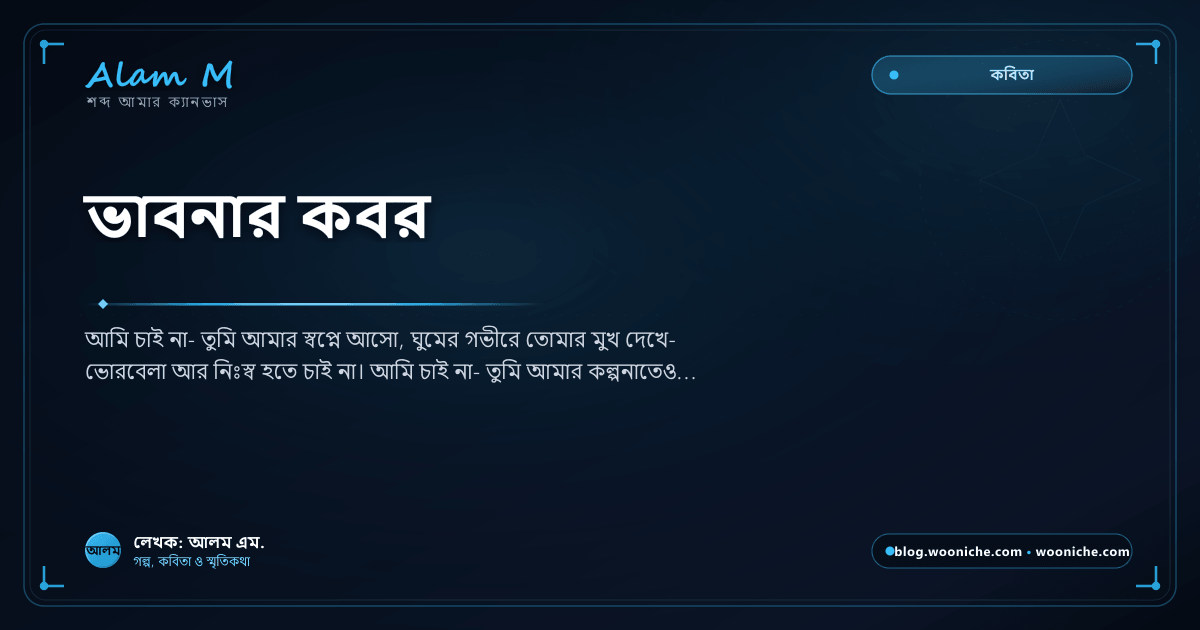
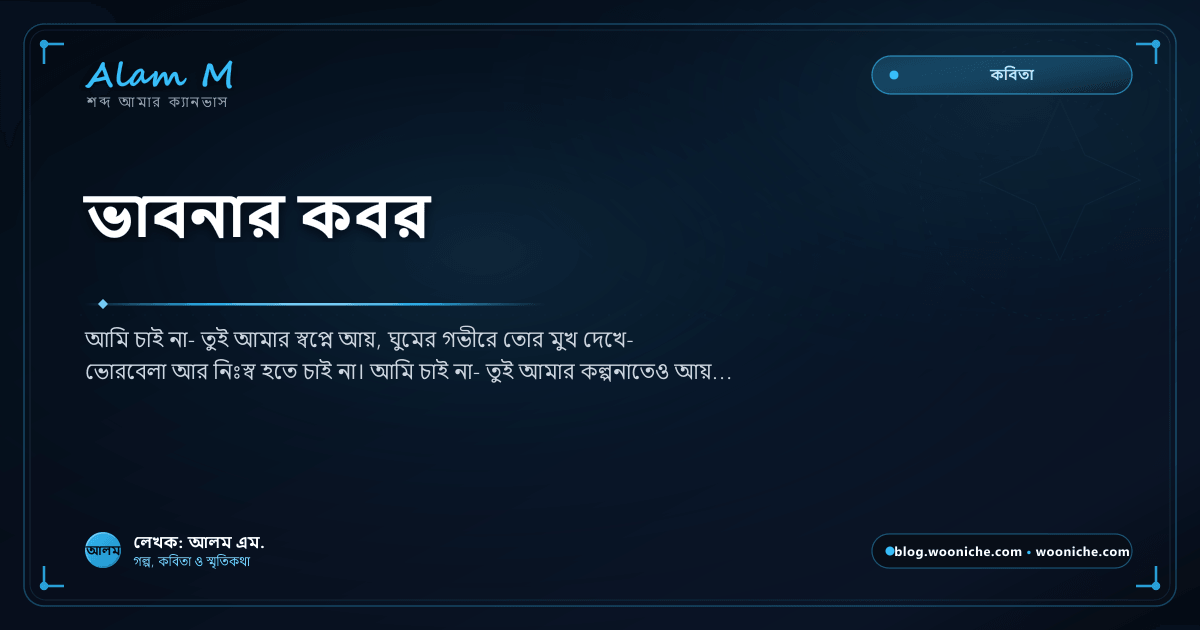
style(content): update poem 'bhabnar-kobor' to informal intimate address (তুমি to তুই)

Changed region(s): [[0.185, 0.5127, 0.6167, 0.6032], [0.1233, 0.8746, 0.1542, 0.9048]]

diff --git a/src/integrations/d1/seed-data.ts b/src/integrations/d1/seed-data.ts
@@ -261,9 +261,9 @@ export const INITIAL_SEED_DATA = {
       "slug": "bhabnar-kobor",
       "title_bn": "ভাবনার কবর",
       "title_en": null,
-      "excerpt_bn": "আমি চাই না- তুমি আমার স্বপ্নে আসো, ঘুমের গভীরে তোমার মুখ দেখে- ভোরবেলা আর নিঃস্ব হতে চাই না। আমি চাই না- তুমি আমার কল্পনাতেও আসো, কোনো অবসরে- তোমাকে নিয়ে গল্প সাজাতে চাই না...",
+      "excerpt_bn": "আমি চাই না- তুই আমার স্বপ্নে আয়, ঘুমের গভীরে তোর মুখ দেখে- ভোরবেলা আর নিঃস্ব হতে চাই না। আমি চাই না- তুই আমার কল্পনাতেও আয়, কোনো অবসরে- তোকে নিয়ে গল্প সাজাতে চাই না...",
       "excerpt_en": null,
-      "content_bn": "<p>আমি চাই না-<br>তুমি আমার স্বপ্নে আসো,<br>ঘুমের গভীরে তোমার মুখ দেখে-<br>ভোরবেলা আর নিঃস্ব হতে চাই না।</p>\n<p>আমি চাই না-<br>তুমি আমার কল্পনাতেও আসো,<br>কোনো অবসরে-<br>তোমাকে নিয়ে গল্প সাজাতে চাই না।</p>\n<p>তাই চাই, যখন জেগে থাকি-<br>তখন যেন ভাবনার কবর দিতে পারি,<br>যে স্মৃতিগুলো আমাকে বন্দি করেছে-<br>তাদের শেষ বিদায় জানাতে পারি।</p>\n<p>তোমার নাম লেখা পুরোনো চিঠিগুলো-<br>আর পড়তে চাই না,<br>যে পথে একদিন তোমার সঙ্গে হেঁটেছি-<br>সে পথেও ফিরে তাকাতে চাই না।</p>\n<p>আমি জানি, ভুলে যাওয়া এত সহজ নয়,<br>স্মৃতি কোনো নির্দেশ মানে না,<br>তবু নিজেকে বোঝাতে চাই প্রতিদিন,<br>হারানো তোমাকে ফিরে পেতে না চাই<br>এই জীবনেই তোমাকে ভুলে যেতে চাই<br>শিখে নিতে চাই একা থাকার ব্যাকরণ<br>ভাবনার কবর দিয়ে অবসর চাই।</p>\n<p class=\"poem-date\"><strong>© আলম</strong></p>",
+      "content_bn": "<p>আমি চাই না-<br>তুই আমার স্বপ্নে আয়,<br>ঘুমের গভীরে তোর মুখ দেখে-<br>ভোরবেলা আর নিঃস্ব হতে চাই না।</p>\n<p>আমি চাই না-<br>তুই আমার কল্পনাতেও আয়,<br>কোনো অবসরে-<br>তোকে নিয়ে গল্প সাজাতে চাই না।</p>\n<p>তাই চাই, যখন জেগে থাকি-<br>তখন যেন ভাবনার কবর দিতে পারি,<br>যে স্মৃতিগুলো আমাকে বন্দি করেছে-<br>তাদের শেষ বিদায় জানাতে পারি।</p>\n<p>তোর নাম লেখা পুরোনো চিঠিগুলো-<br>আর পড়তে চাই না,<br>যে পথে একদিন তোর সঙ্গে হেঁটেছি-<br>সে পথেও ফিরে তাকাতে চাই না।</p>\n<p>আমি জানি, ভুলে যাওয়া এত সহজ নয়,<br>স্মৃতি কোনো নির্দেশ মানে না,<br>তবু নিজেকে বোঝাতে চাই প্রতিদিন,<br>হারানো তোকে ফিরে পেতে না চাই<br>এই জীবনেই তোকে ভুলে যেতে চাই<br>শিখে নিতে চাই একা থাকার ব্যাকরণ<br>ভাবনার কবর দিয়ে অবসর চাই।</p>\n<p class=\"poem-date\"><strong>© আলম</strong></p>",
       "content_en": null,
       "cover_image_url": null,
       "published": true,

diff --git a/src/lib/staticArticlesMeta.ts b/src/lib/staticArticlesMeta.ts
@@ -155,8 +155,8 @@ export const STATIC_ARTICLES_META = [
     "slug": "bhabnar-kobor",
     "title_bn": "ভাবনার কবর",
     "title_en": "ভাবনার কবর",
-    "excerpt_bn": "আমি চাই না- তুমি আমার স্বপ্নে আসো, ঘুমের গভীরে তোমার মুখ দেখে- ভোরবেলা আর নিঃস্ব হতে চাই না। আমি চাই না- তুমি আমার কল্পনাতেও আসো, কোনো অবসরে- তোমাকে নিয়ে গল্প সাজাতে চাই না...",
-    "excerpt_en": "আমি চাই না- তুমি আমার স্বপ্নে আসো, ঘুমের গভীরে তোমার মুখ দেখে- ভোরবেলা আর নিঃস্ব হতে চাই না। আমি চাই না- তুমি আমার কল্পনাতেও আসো, কোনো অবসরে- তোমাকে নিয়ে গল্প সাজাতে চাই না...",
+    "excerpt_bn": "আমি চাই না- তুই আমার স্বপ্নে আয়, ঘুমের গভীরে তোর মুখ দেখে- ভোরবেলা আর নিঃস্ব হতে চাই না। আমি চাই না- তুই আমার কল্পনাতেও আয়, কোনো অবসরে- তোকে নিয়ে গল্প সাজাতে চাই না...",
+    "excerpt_en": "আমি চাই না- তুই আমার স্বপ্নে আয়, ঘুমের গভীরে তোর মুখ দেখে- ভোরবেলা আর নিঃস্ব হতে চাই না। আমি চাই না- তুই আমার কল্পনাতেও আয়, কোনো অবসরে- তোকে নিয়ে গল্প সাজাতে চাই না...",
     "cover_image_url": "https://a.wooniche.com/og/articles/bhabnar-kobor.png",
     "published_at": "2026-11-05T05:44:00.000Z"
   },
